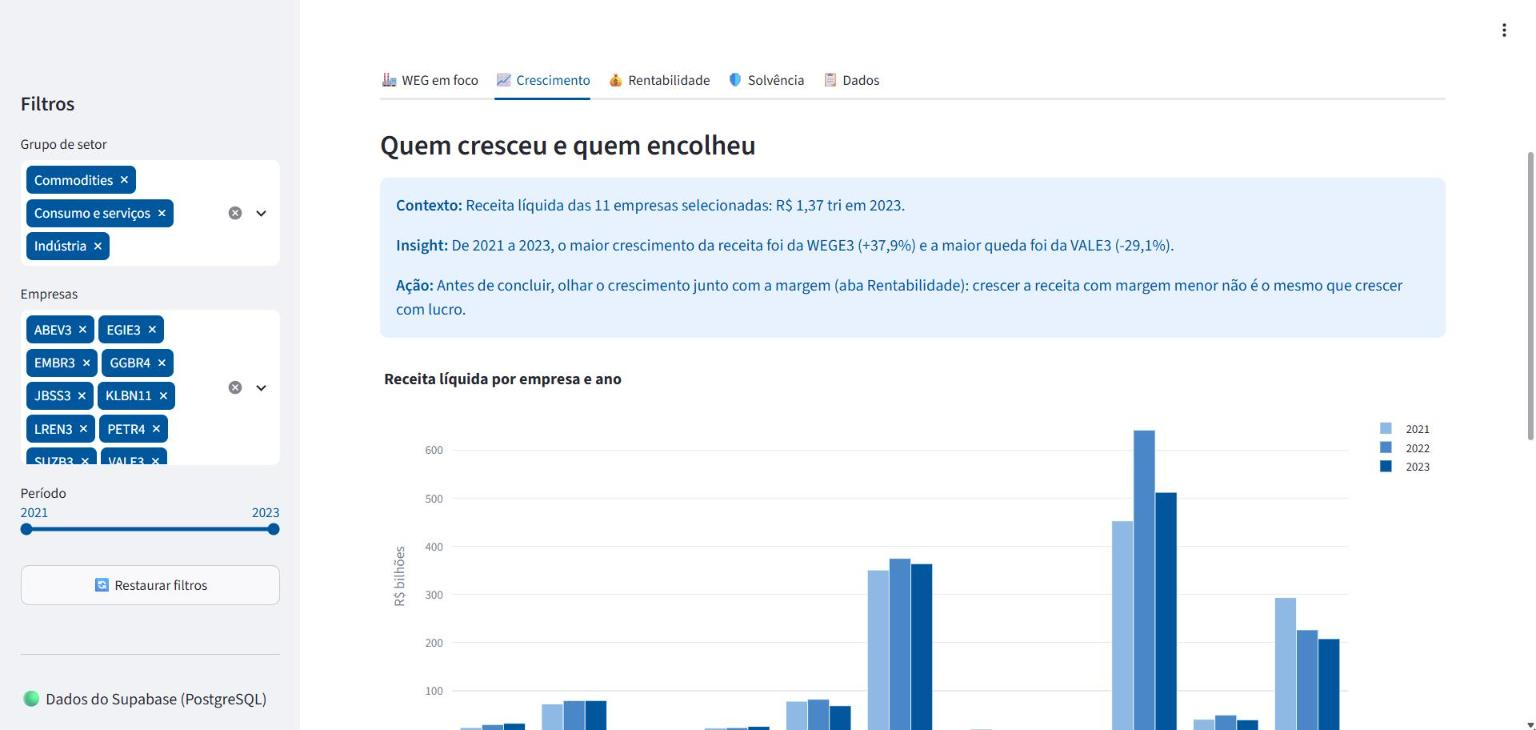
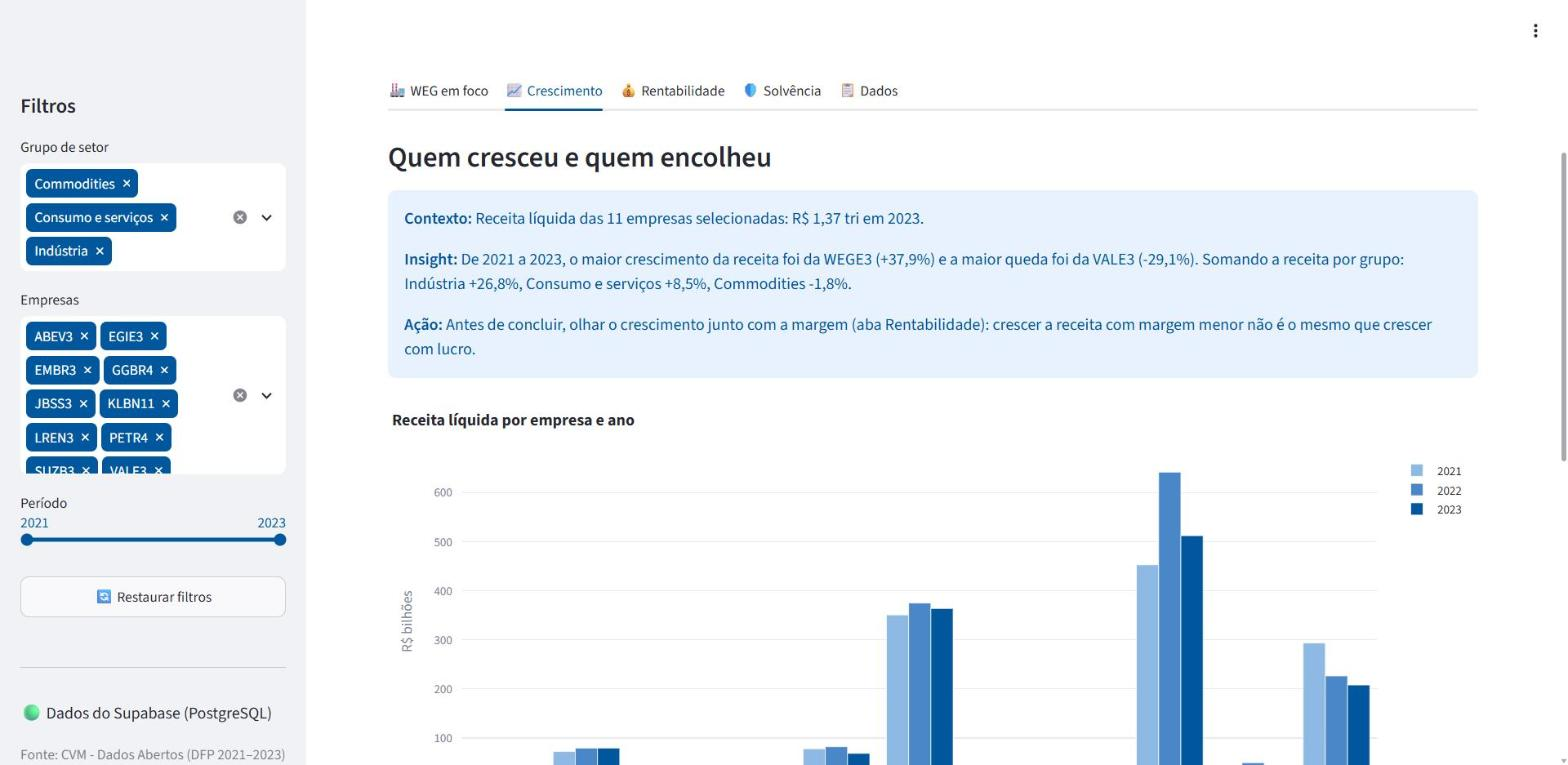
feat: adiciona crescimento da receita por grupo de setor

diff --git a/app.py b/app.py
@@ -387,6 +387,11 @@ with aba_crescimento:
             fundo = "a maior queda" if menor["variacao"] < 0 else "o menor crescimento"
             insight = (f"De {anos[0]} a {ultimo_ano}, {topo} da receita foi da {maior['ticker']} ({variacao_maior}) "
                        f"e {fundo} foi da {menor['ticker']} ({variacao_menor}).")
+        # crescimento da receita somada de cada grupo, do maior para o menor
+        receita_grupo = df_filtrado.pivot_table(index="grupo", columns="ano", values="receita", aggfunc="sum")
+        por_grupo = (receita_grupo[ultimo_ano] / receita_grupo[anos[0]] - 1).sort_values(ascending=False)
+        lista = ", ".join(f"{grupo} {numero_br(v * 100, 1, sinal=True)}%" for grupo, v in por_grupo.items())
+        insight += f" Somando a receita por grupo: {lista}."
     else:
         insight = "Com um ano só não dá para medir crescimento: escolha pelo menos dois anos no filtro de período."
     total = df_filtrado.loc[df_filtrado["ano"] == ultimo_ano, "receita"].sum()

diff --git a/README.md b/README.md
@@ -162,7 +162,7 @@ As versões das bibliotecas do app estão fixas no `requirements.txt`. O Jupyter
 
 Números do filtro padrão do app (11 empresas, 2021 a 2023), em reais, sem correção pela inflação. Os gráficos citados estão nos prints da seção [Demonstração do app](#demonstração-do-app).
 
-**1. Crescimento da receita.** A WEG foi a empresa que mais cresceu: a receita passou de R$ 23,6 bi em 2021 para R$ 32,5 bi em 2023 (+37,9%), e o lucro líquido de R$ 3,66 bi para R$ 5,87 bi. Depois vêm a Renner (+29,1%) e a Embraer (+15,2%). Quatro empresas encolheram no período: Vale (-29,1%), Engie (-14,3%), Gerdau (-12,0%) e Suzano (-3,0%), três delas de commodities. Em 2023 a carteira toda encolheu contra 2022 (receita -11,6% e lucro -40,7%), enquanto a WEG cresceu 8,7% em receita e 37,3% em lucro.
+**1. Crescimento da receita.** A WEG foi a empresa que mais cresceu: a receita passou de R$ 23,6 bi em 2021 para R$ 32,5 bi em 2023 (+37,9%), e o lucro líquido de R$ 3,66 bi para R$ 5,87 bi. Depois vêm a Renner (+29,1%) e a Embraer (+15,2%). Quatro empresas encolheram no período: Vale (-29,1%), Engie (-14,3%), Gerdau (-12,0%) e Suzano (-3,0%), três delas de commodities. Por grupo, somando a receita das empresas de cada um, a variação foi de +26,8% na indústria, +8,5% em consumo e serviços e -1,8% em commodities: o grupo que mais cresceu foi a indústria, e só o de commodities encolheu. Em 2023 a carteira toda encolheu contra 2022 (receita -11,6% e lucro -40,7%), enquanto a WEG cresceu 8,7% em receita e 37,3% em lucro.
 
 | Empresa | Grupo | Receita 2021 | Receita 2023 | Crescimento |
 |---|---|---|---|---|
